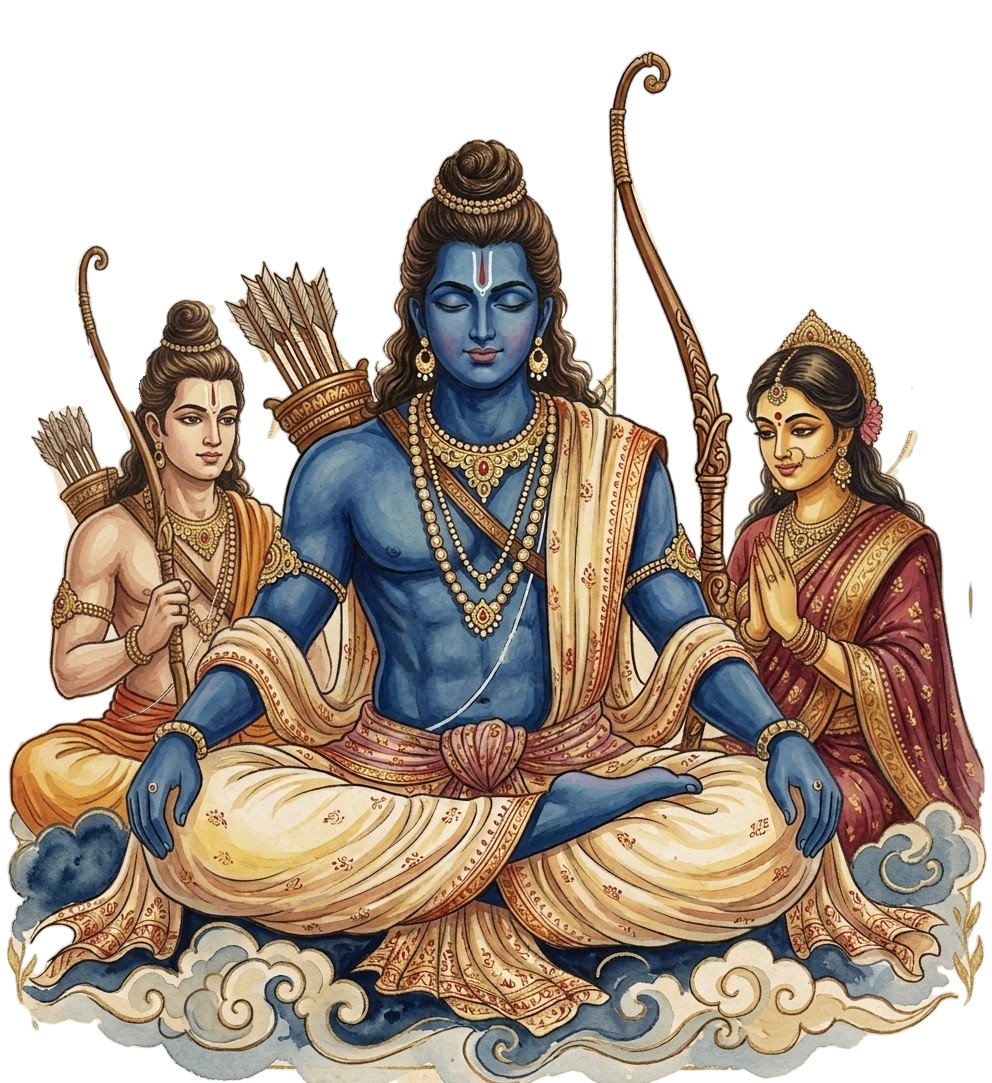
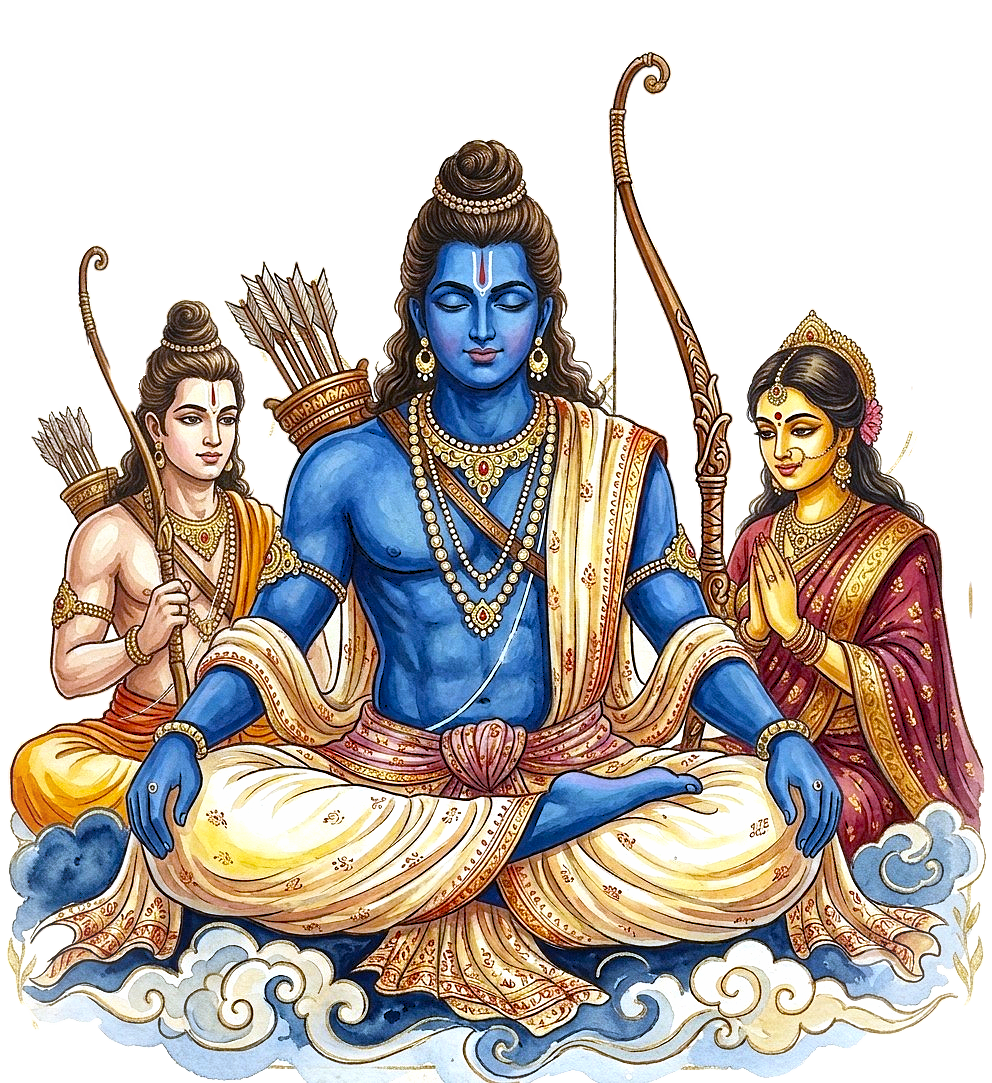
Fix navbar styling, layout width, text line wrapping and layer 3 floating animation

diff --git a/src/sections/home/Hero.js b/src/sections/home/Hero.js
@@ -33,30 +33,30 @@ const Hero = () => {
         });
 
         // 1. mainImg disappears
-        tl.fromTo(mainImgRef.current, 
-            { opacity: 1 }, 
-            { opacity: 0, duration: 1, ease: "power1.inOut" }, 
+        tl.fromTo(mainImgRef.current,
+            { opacity: 1 },
+            { opacity: 0, duration: 1, ease: "power1.inOut" },
             0
         );
-        
-        // 2. text scrolls to the top right and shrinks to fit the empty space beside the temple
-        tl.fromTo(textRef.current, 
-            { x: "0vw", y: "0vh", scale: 1 }, 
-            { x: "30vw", y: "-40vh", scale: 0.45, duration: 1, ease: "power1.inOut" }, 
+
+        // 2. text disappears (no motion)
+        tl.fromTo(textRef.current,
+            { opacity: 1 },
+            { opacity: 0, duration: 1, ease: "power1.inOut" },
             0
         );
-        
+
         // 3. layer2 scrolls up from the bottom (moves a bit higher/slower for parallax)
-        tl.fromTo(layer2Ref.current, 
-            { yPercent: 100 }, 
-            { yPercent: 40, duration: 1, ease: "power1.inOut" }, 
+        tl.fromTo(layer2Ref.current,
+            { yPercent: 100 },
+            { yPercent: 40, duration: 1, ease: "power1.inOut" },
             0
         );
-        
+
         // 4. layer1Top scrolls up from the bottom to cover most of the screen
-        tl.fromTo(layer1Ref.current, 
-            { yPercent: 100 }, 
-            { yPercent: 10, duration: 1, ease: "power1.inOut" }, 
+        tl.fromTo(layer1Ref.current,
+            { yPercent: 100 },
+            { yPercent: 10, duration: 1, ease: "power1.inOut" },
             0
         );
     }, { scope: containerRef });
@@ -70,25 +70,24 @@ const Hero = () => {
 
             {/* Layer 3 - Auto Parallax */}
             <motion.div
-                animate={{ x: [-20, 20, -20], y: [-15, 15, -15], scale: 1.05 }}
-                transition={{ duration: 15, repeat: Infinity, ease: "easeInOut" }}
+                animate={{ y: [0, -12] }}
+                transition={{ duration: 3, repeat: Infinity, repeatType: "reverse", ease: "easeInOut" }}
                 className="absolute inset-0 z-10"
             >
                 <Image src="/images/Layer3.png" fill priority className="object-cover" alt="Mid Background" />
             </motion.div>
 
-            {/* Shadow Gradient for Text Contrast */}
-            <div className="absolute bottom-0 w-full h-[60vh] bg-gradient-to-t from-[#4d1700] via-[#4d1700]/60 to-transparent z-30 pointer-events-none" />
+
 
             {/* Main Content (Ram, Sita, Laxman & Text) */}
-            <div className="absolute inset-0 z-40 flex flex-col items-center justify-center pt-[15vh] md:pt-[20vh] px-5 pointer-events-none">
-                
-                <div ref={mainImgRef} className="relative w-full max-w-[400px] md:max-w-[450px] aspect-[4/3] flex items-center justify-center origin-center">
+            <div className="absolute inset-0 z-40 flex flex-col md:flex-row-reverse items-center justify-between pt-[12vh] md:pt-[10vh] px-6 md:px-12 lg:px-24 pointer-events-none">
+
+                <div ref={mainImgRef} className="relative w-full md:w-[56%] max-w-[750px] md:max-w-[850px] lg:max-w-[950px] aspect-[4/3] flex items-center justify-center origin-center mb-8 md:mb-0 shrink-0">
                     {/* Pulsing Glow behind main image - Intensified */}
                     <motion.div
                         animate={{ scale: [1, 1.25, 1], opacity: [0.6, 1, 0.6] }}
                         transition={{ duration: 2.5, repeat: Infinity, ease: "easeInOut" }}
-                        className="absolute w-[85%] h-[85%] bg-[#ffb703] rounded-full blur-[50px] md:blur-[80px] z-0"
+                        className="absolute w-[85%] h-[85%] bg-[#fff3d4] rounded-full blur-[50px] md:blur-[80px] z-0"
                     />
                     {/* Floating mainImg */}
                     <motion.div
@@ -106,14 +105,33 @@ const Hero = () => {
                     </motion.div>
                 </div>
 
-                <div ref={textRef} className="text-center mt-4 z-20 px-4 origin-top">
-                    <h1 className="font-['var(--font-cinzel)',_serif] text-2xl md:text-4xl lg:text-5xl leading-tight font-extrabold uppercase tracking-wider text-transparent bg-clip-text bg-gradient-to-b from-white via-[#f0f0f0] to-[#b0b0b0] drop-shadow-[0_4px_6px_rgba(0,0,0,0.7)]">
-                        Traditional Indian Performance <br className="hidden md:block" /> of Ramayan
+                <div ref={textRef} className="text-left z-20 w-full md:w-[48%] flex flex-col items-center md:items-start origin-center pointer-events-auto text-center md:text-left mt-[-20px] md:mt-0">
+
+                    {/* Subheading: KEEPING OUR HERITAGE ALIVE */}
+                    <div className="flex items-center justify-center md:justify-start gap-3 mb-4">
+                        <div className="h-[1px] w-6 md:w-10 bg-[#98221b]"></div>
+                        <span className="text-[#98221b] tracking-[0.25em] text-[10px] md:text-xs font-bold uppercase font-['var(--font-sans)']">
+                            Shree RamLeela Seva Trust
+                        </span>
+                        <div className="h-[1px] w-4 md:w-6 bg-[#98221b]"></div>
+                    </div>
+
+                    {/* Main Headings */}
+                    <h1 className="leading-tight font-bold tracking-wide w-full mb-6" style={{ fontFamily: "var(--font-cinzel), serif" }}>
+                        <span className="text-[#3b271a] block text-3xl md:text-4xl lg:text-[42px] mb-1 md:mb-2 drop-shadow-sm whitespace-nowrap">Traditional Indian</span>
+                        <span className="text-[#3b271a] block text-3xl md:text-4xl lg:text-[42px] mb-2 md:mb-4 drop-shadow-sm whitespace-nowrap">Performance of</span>
+                        <span className="text-[#830404] block text-4xl md:text-6xl lg:text-[90px] drop-shadow-sm"> Ramayan</span>
                     </h1>
-                    <h2 className="font-['var(--font-cinzel)',_serif] text-lg md:text-xl lg:text-2xl text-white italic mt-3 font-semibold tracking-widest drop-shadow-[0_2px_4px_rgba(0,0,0,0.8)]">
-                        Shree Ramleela Seva Trust
-                    </h2>
+
+                    {/* CTA Button */}
+                    <a href="/about" className="bg-[#811915] text-[#F5E9D2] px-6 py-3 md:px-8 md:py-3.5 rounded text-xs md:text-sm tracking-widest font-bold uppercase hover:bg-[#6b1411] transition-all duration-300 flex items-center gap-2 group shadow-lg">
+                        KNOW MORE
+                        <svg className="group-hover:translate-x-1 transition-transform" width="16" height="16" viewBox="0 0 24 24" fill="none" stroke="currentColor" strokeWidth="2" strokeLinecap="round" strokeLinejoin="round">
+                            <path d="M5 12h14M12 5l7 7-7 7" />
+                        </svg>
+                    </a>
                 </div>
+
             </div>
 
             {/* Layer 2 - Midground behind Layer 1 */}

diff --git a/src/components/Navbar.js b/src/components/Navbar.js
@@ -27,10 +27,10 @@ const Navbar = () => {
                 {/* Brand Logo & Text */}
                 <Link className="logo" href="/">
                     <Image
-                        src="/images/temp_logo.png"
+                        src="/images/navbar_logo.png"
                         alt="Shree RamLeela Seva Trust Logo"
                         width={100}
-                        height={100}
+                        height={75}
                         className="object-contain"
                         style={{ height: "auto" }}
                         priority
@@ -57,6 +57,23 @@ const Navbar = () => {
                 {/* Contact Button */}
                 <Link href="/donation" className="contact-btn group">
                     <div className="inner">
+                        <svg
+                            className="lucide lucide-hand-heart button-icon"
+                            xmlns="http://www.w3.org/2000/svg"
+                            width="20"
+                            height="20"
+                            viewBox="0 0 24 24"
+                            fill="none"
+                            stroke="currentColor"
+                            strokeWidth="2"
+                            strokeLinecap="round"
+                            strokeLinejoin="round"
+                        >
+                            <path d="M11 14h2a2 2 0 0 0 0-4h-3c-.6 0-1.1.2-1.4.6L3 16" />
+                            <path d="m14.45 13.39 5.05-4.694C20.196 8 21 6.85 21 5.75a2.75 2.75 0 0 0-4.797-1.837.276.276 0 0 1-.406 0A2.75 2.75 0 0 0 11 5.75c0 1.2.802 2.248 1.5 2.946L16 11.95" />
+                            <path d="m2 15 6 6" />
+                            <path d="m7 20 1.6-1.4c.3-.4.8-.6 1.4-.6h4c1.1 0 2.1-.4 2.8-1.2l4.6-4.4a1 1 0 0 0-2.75-2.91" />
+                        </svg>
                         <span>Donate</span>
                     </div>
                 </Link>

diff --git a/src/app/globals.css b/src/app/globals.css
@@ -15,6 +15,7 @@
 html,
 body {
     width: 100%;
+    overflow-x: hidden;
     background-color: #fffaf0;
     color: #4d1700;
     scroll-behavior: smooth;
@@ -118,7 +119,8 @@ section {
     }
 
     .navbar {
-        @apply fixed w-full left-1/2 py-5 px-5 md:px-20 -translate-x-1/2 z-[100] transition-all duration-300 ease-in-out;
+        @apply fixed w-full left-1/2 py-2 px-5 md:px-20 -translate-x-1/2 z-[100] transition-all duration-300 ease-in-out;
+        font-family: var(--font-cinzel), serif;
 
         &.scrolled {
             @apply top-0 bg-[#fffaf0]/90 backdrop-blur-md shadow-md;
@@ -133,7 +135,13 @@ section {
         }
 
         .logo {
-            @apply text-[#4d1700] text-xl md:text-2xl font-semibold transition-transform duration-300 hover:scale-105;
+            align-self: flex-start;
+            margin-top: -8px;
+            background: #fffaf0;
+            padding: 6px 10px 10px 10px;
+            border-bottom-left-radius: 12px;
+            border-bottom-right-radius: 12px;
+            @apply transition-transform duration-300 hover:scale-105 shadow-sm;
         }
 
         nav.desktop {
@@ -143,7 +151,7 @@ section {
                 @apply flex space-x-8;
 
                 li {
-                    @apply text-[#4d1700]/70 relative text-lg font-medium transition-colors duration-300;
+                    @apply text-[#4d1700]/70 relative text-sm md:text-base font-medium transition-colors duration-300;
 
                     span {
                         @apply transition-colors duration-300 hover:text-[#4d1700];